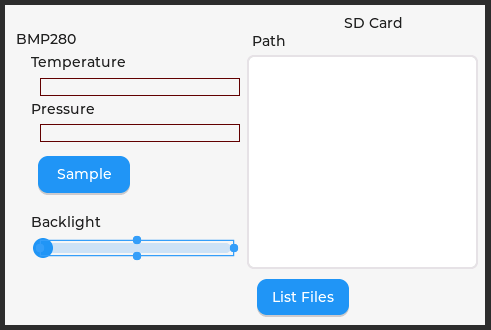
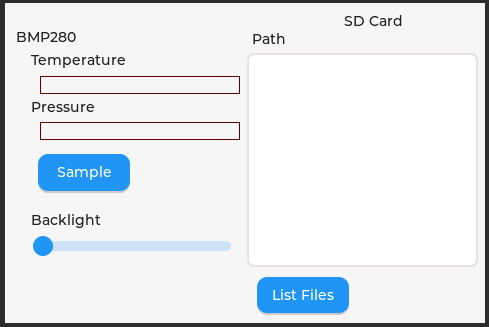
Comments

diff --git a/examples/Squareline/main/main.c b/examples/Squareline/main/main.c
@@ -4,7 +4,7 @@
 #include "ui/ui.h"
 #include "string.h"
 
-#define TAG "MAIN"
+#define TAG "LCD 3.5 Example"
 
 /***
  *      ____   ____     ____                 _   _____           _   
@@ -99,6 +99,17 @@ void BtnSampleClicked(lv_event_t * e)
     }
 }
 
+
+/***
+ *      ____                _     _  _         _      _     _              _   
+ *     | __ )   __ _   ___ | | __| |(_)  __ _ | |__  | |_  | |_  ___  ___ | |_ 
+ *     |  _ \  / _` | / __|| |/ /| || | / _` || '_ \ | __| | __|/ _ \/ __|| __|
+ *     | |_) || (_| || (__ |   < | || || (_| || | | || |_  | |_|  __/\__ \| |_ 
+ *     |____/  \__,_| \___||_|\_\|_||_| \__, ||_| |_| \__|  \__|\___||___/ \__|
+ *                                      |___/                                  
+ */
+#define DEFAULT_BACKLIGHT 60
+
 void SldBacklightChanged(lv_event_t * e)
 {
     lv_obj_t * slider = lv_event_get_target(e);
@@ -120,6 +131,8 @@ void SldBacklightChanged(lv_event_t * e)
 void app_main(void)
 {
     // Initialize display and LVGL
+    // WARNING the display is initialized with the backlight off to launch flicker
+    // Call bsp_lcd_set_brightness() expicitly to make it visible
     lv_disp_t *disp = bsp_lcd_start(false);
     lv_disp_set_rotation(disp, LV_DISP_ROT_90); // Landscape
 
@@ -128,11 +141,6 @@ void app_main(void)
     ui_init();
     bsp_lcd_unlock();
 
-    lv_slider_set_value(ui_sldBacklight, 50, LV_ANIM_OFF);
-    bsp_lcd_set_brightness(50);
-
-    ESP_LOGI(TAG, "Display Initialization done.");
-
     // Initialize I2C and BMP280
     bsp_lcd_i2c_init();
     bmp280Init();
@@ -140,4 +148,10 @@ void app_main(void)
         lv_label_set_text(ui_lblPressure, "BMP280 NOT FOUND");
         lv_label_set_text(ui_lblTemp, "BMP280 NOT FOUND");
     }
+
+    // Turn on backlight
+    lv_slider_set_value(ui_sldBacklight, DEFAULT_BACKLIGHT, LV_ANIM_OFF);
+    bsp_lcd_set_brightness(DEFAULT_BACKLIGHT);
+
+    ESP_LOGI(TAG, "Startup Complete.");
 }

diff --git a/esp-lcd-3-5-bsp.c b/esp-lcd-3-5-bsp.c
@@ -20,7 +20,7 @@
 #include "driver/spi_common.h"
 #include "sdmmc_cmd.h"
 
-static const char *TAG = "ESP-LCD-3.5";
+static const char *TAG = "ESP LCD 3.5 DIY";
 
 static const ledc_mode_t BACKLIGHT_LEDC_MODE = LEDC_LOW_SPEED_MODE;
 static const ledc_channel_t BACKLIGHT_LEDC_CHANNEL = LEDC_CHANNEL_0;
